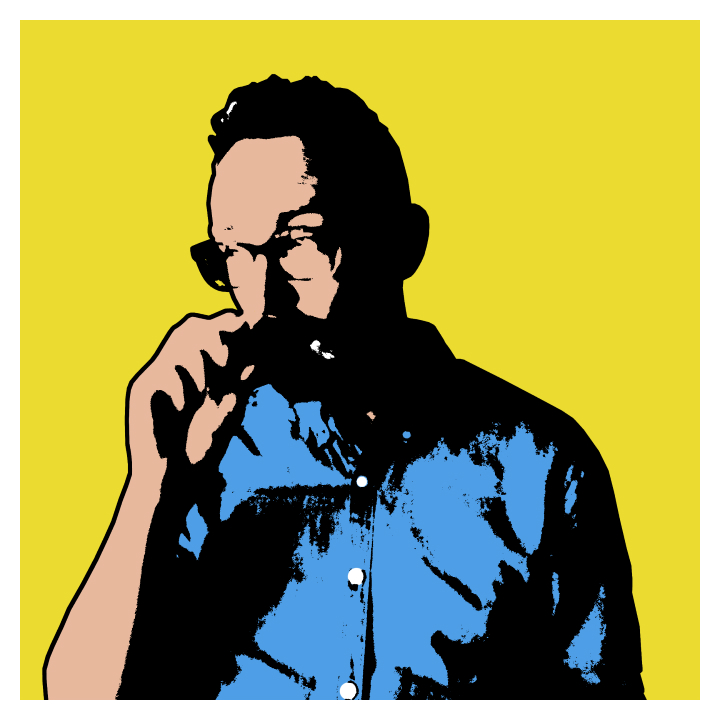
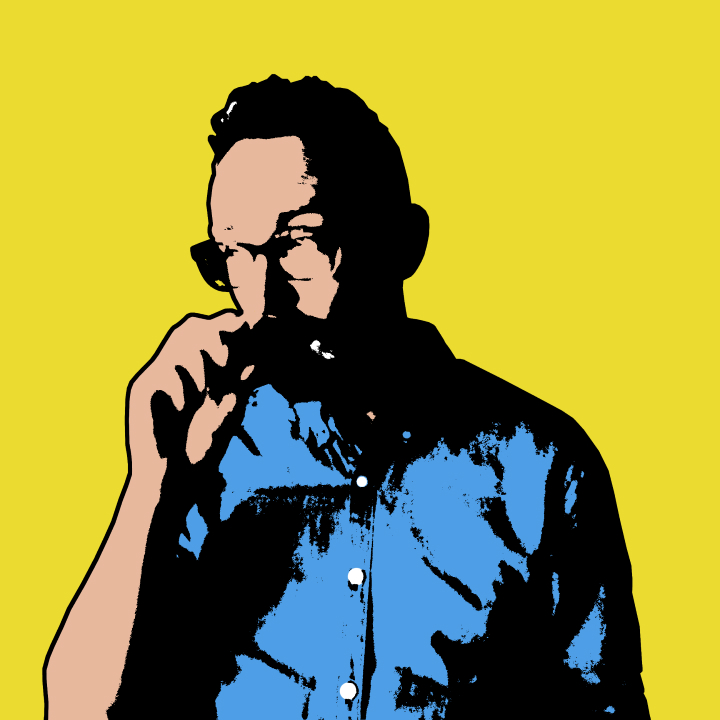
Updated hero images.

Changed region(s): [[0.0, 0.0, 1.0, 1.0]]

diff --git a/index.html b/index.html
@@ -47,8 +47,8 @@
                 <a class="nav-link" href="work.html">Work.</a>
               </li>
             </ul>
-            <div class="col-sm-6 col-md-6 col-lg-4 hero-image">
-              <img src="img/hero/hero-img-1.jpg" alt="Illustration of Steven Dow" class="img-fluid">
+            <div class="col-sm-6 col-md-6 col-lg-4 image-padding">
+              <img src="img/hero/hero-img-1.jpg" alt="Illustration of Steven Dow" class="img-fluid image-border">
             </div>
           </div>
         </div>
@@ -66,12 +66,14 @@
               <h3 class="lead">Steven A. R. Dow.</h3>
               <h1 class="display-3 pb-3 font-weight-bold">
                 Product<br>Designer<span class="text-red">.</span></h1>
-              <p>
+                <div class="font-weight-light pb-3">
+                <p>
                 I'm a Product Designer with more than ten years of digital design experience.
               <p>
               <p>
                 I partner with teams around the globe and lead design engagements ranging from single app design to enterprise-scale implementation, creating unique customer experiences for millions of users.
               </p>
+            </div>
             </div>
           </div>
           <div class="card-group pb-3">
@@ -85,8 +87,8 @@
               <img src="img/hero/hero-img-3.jpg" alt="portrait 3" class="img-fluid ">
             </div>
           </div>
-          <div class="row justify-content-end">
-            <div class="col col-sm-9 col-md-8 col-lg-6">
+          <div class="row justify-content-end pt-2">
+            <div class="col col-sm-9 col-md-8 col-lg-6 font-weight-light">
               <p>
                 I make sure my concepts and design solutions are well thought through, and based on thorough research. I'm a good listener, and I'm strong at aligning with stakeholders.
               </p>

diff --git a/work.html b/work.html
@@ -28,11 +28,6 @@
     <header class="background-blue">
       <nav class="navbar">
         <a class="navbar-brand mx-auto" href="index.html"><img src="img/logo.svg" alt="Logo of Steven Dow"></a>
-        <!-- <a onclick="myFunction()" href="#"> -->
-          <!-- <svg width="2rem" height="2em" viewBox="0 0 16 16" class="bi bi-moon" fill="currentColor" xmlns="http://www.w3.org/2000/svg">
-            <path fill-rule="evenodd" d="M14.53 10.53a7 7 0 0 1-9.058-9.058A7.003 7.003 0 0 0 8 15a7.002 7.002 0 0 0 6.53-4.47z"/>
-          </svg> -->
-        <!-- </a> -->
       </nav>
       <!-- hero section -->
       <section class="work py-5">
@@ -49,8 +44,8 @@
               <a class="nav-link active" href="#">Work<span class="text-blue">.</span></a>
             </li>
           </ul>
-          <div class="col-sm-6 col-md-6 col-lg-4 hero-image">
-            <img src="img/hero/hero-img-1.jpg" alt="Illustration of Steven Dow" class="img-fluid">
+          <div class="col-sm-6 col-md-6 col-lg-4 image-padding">
+            <img src="img/hero/hero-img-1.jpg" alt="Illustration of Steven Dow" class="img-fluid image-border">
           </div>
         </div>
         </div>

diff --git a/what.html b/what.html
@@ -28,11 +28,6 @@
     <header class="background-green">
       <nav class="navbar">
         <a class="navbar-brand mx-auto" href="index.html"><img src="img/logo.svg" alt="Logo of Steven Dow"></a>
-        <!-- <a onclick="myFunction()" href="#"> -->
-          <!-- <svg width="2rem" height="2em" viewBox="0 0 16 16" class="bi bi-moon" fill="currentColor" xmlns="http://www.w3.org/2000/svg">
-            <path fill-rule="evenodd" d="M14.53 10.53a7 7 0 0 1-9.058-9.058A7.003 7.003 0 0 0 8 15a7.002 7.002 0 0 0 6.53-4.47z"/>
-          </svg> -->
-        <!-- </a> -->
       </nav>
       <!-- hero section -->
       <section class="what py-5">
@@ -49,8 +44,8 @@
               <a class="nav-link" href="work.html">Work.</a>
             </li>
           </ul>
-          <div class="col-sm-6 col-md-6 col-lg-4 hero-image">
-            <img src="img/hero/hero-img-2.jpg" alt="Illustration of Steven Dow" class="img-fluid">
+          <div class="col-sm-6 col-md-6 col-lg-4 image-padding">
+            <img src="img/hero/hero-img-2.jpg" alt="Illustration of Steven Dow" class="img-fluid image-border">
           </div>
         </div>
         </div>

diff --git a/styles.css b/styles.css
@@ -198,8 +198,13 @@ svg:hover {
 	background-color: #499CE9;
 }
 
-.hero-image {
+/* Hero image  */
+.image-pading {
 	padding-bottom: 2.5rem;
+}
+
+.image-border {
+	border: 10px solid #ffffff; 
 }
 
 .margin-0 {
@@ -306,7 +311,7 @@ footer ul {
 
 /* // Small devices (landscape phones, 576px and up) */
 @media (min-width: 375px) {
-	.hero-image {
+	.image-padding {
 		padding-bottom: 3.5rem;
 	}
 	.hero, .what, .work {
@@ -315,7 +320,7 @@ footer ul {
 }
 
 @media (min-width: 414px) {
-	.hero-image {
+	.image-padding {
 		padding-bottom: 4rem;
 	}
 	.hero, .what, .work {
@@ -325,7 +330,7 @@ footer ul {
 
 /* // Medium devices (tablets, 768px and up) */
 @media (min-width: 768px) {
-	.hero-image {
+	.image-padding {
 		padding-bottom: 9rem;
 	}
 	.hero, .what, .work {
